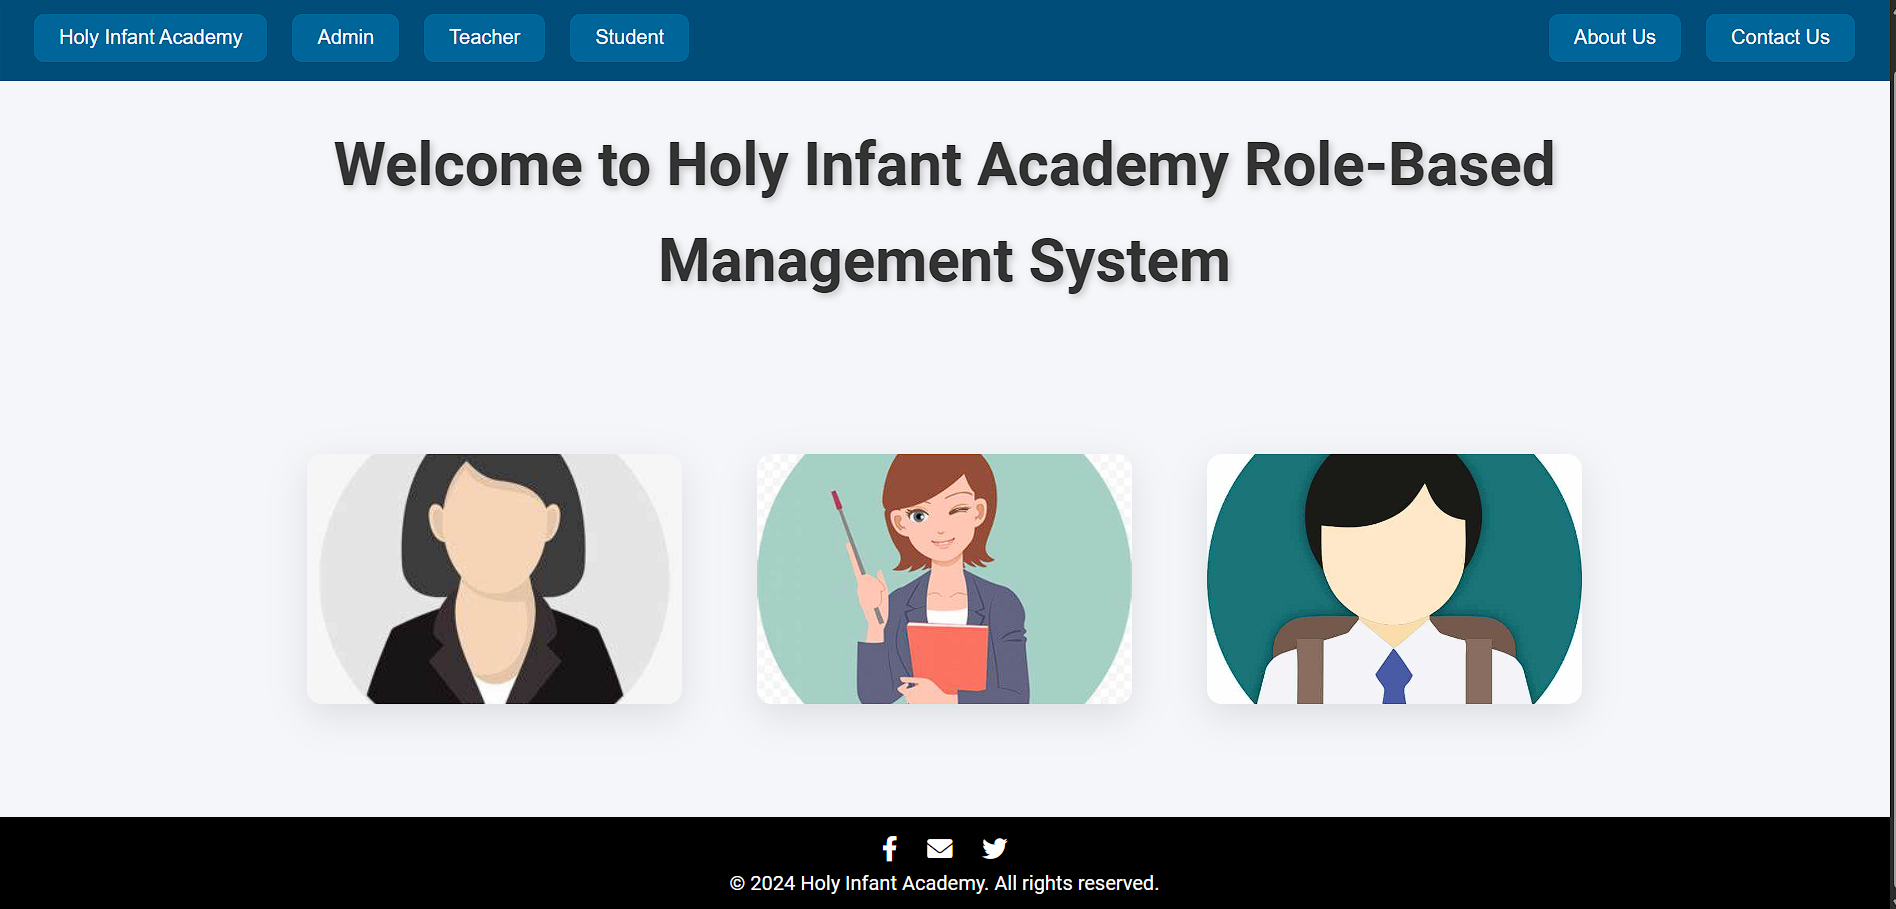
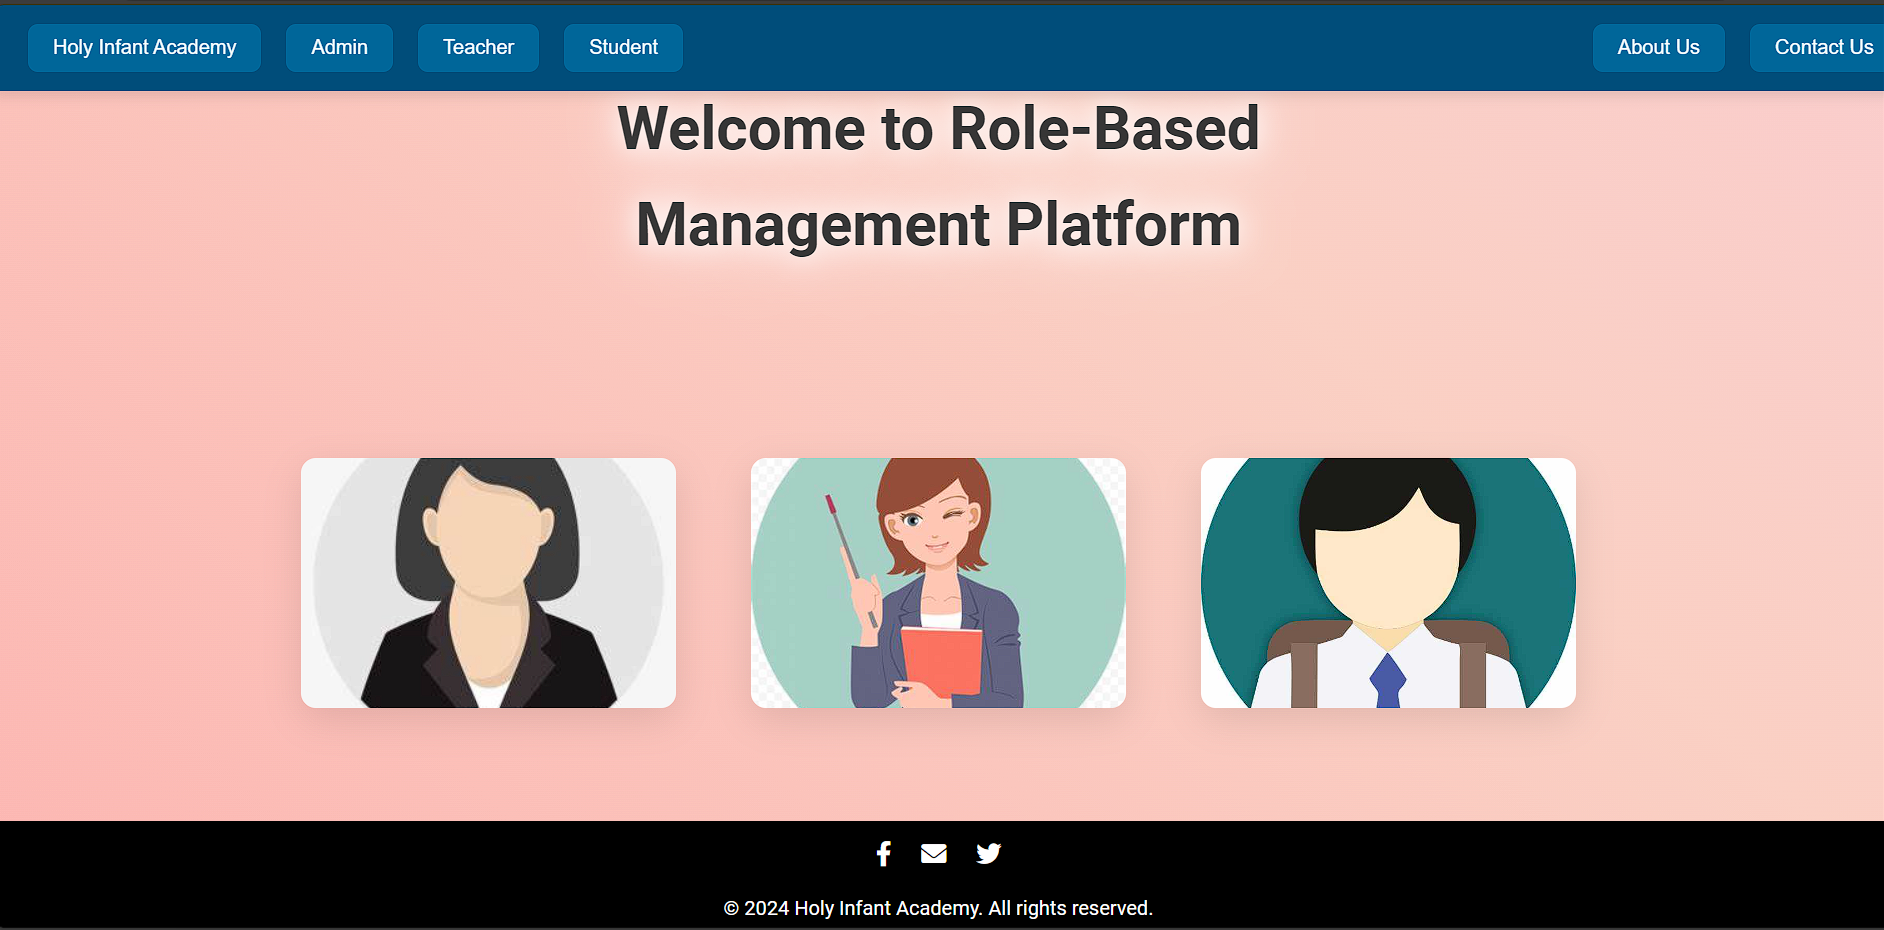
updated index,readme.md

diff --git a/index.php b/index.php
@@ -16,23 +16,68 @@ $result = $conn->query($sql);
     <style>
         /* Global Styles */
         body {
-            font-family: 'Roboto', sans-serif;
-            margin: 0;
-            padding: 0;
-            background-color: #f4f6f9;
-            color: #333;
-            display: flex;
-            flex-direction: column;
-            min-height: 100vh;
-            text-align: center;
-            line-height: 1.6;
-            transition: all 0.3s ease;
+            
+    font-family: 'Roboto', sans-serif;
+    margin: 0;
+    padding: 0;
+    background-color: #f4f6f9;
+    color: #333;
+    display: flex;
+    flex-direction: column;
+    min-height: 100vh; 
+    text-align: center;
+    line-height: 1.6;
+    transition: all 0.3s ease;
+    background: linear-gradient(45deg, #ff9a9e, #fad0c4, #fbc2eb, #a18cd1);
+    background-size: 400% 400%;
+    animation: gradientShift 10s ease infinite;
+    overflow-x: hidden; 
+    padding-top: 80px; 
+
+
+    }
+
+    /* Gradient Animation Keyframes */
+    @keyframes gradientShift {
+        0% {
+            background-position: 0% 50%;
         }
-        h1, h2, p {
-            margin: 0;
-            color: #333;
-            text-shadow: 0 0 5px rgba(0, 0, 0, 0.2); /* Glow effect */
+        50% {
+            background-position: 100% 50%;
         }
+        100% {
+            background-position: 0% 50%;
+        }
+
+        }
+    
+    /* Glow Effect */
+    #dynamic-content h1 {
+        font-size: 3rem;
+        font-weight: 600;
+        text-shadow: 0 0 15px rgba(255, 255, 255, 0.8), 
+                     0 0 30px rgba(255, 255, 255, 0.6),
+                     0 0 45px rgba(255, 255, 255, 0.4);
+        animation: glowFade 3s infinite alternate ease-in-out;
+    }
+
+    /* Fade In-Out Animation */
+    @keyframes glowFade {
+        0% {
+            opacity: 0.7;
+            text-shadow: 0 0 10px rgba(255, 255, 255, 0.8), 
+                         0 0 20px rgba(255, 255, 255, 0.6), 
+                         0 0 30px rgba(255, 255, 255, 0.4);
+        }
+        100% {
+            opacity: 1;
+            text-shadow: 0 0 20px rgba(255, 255, 255, 1), 
+                         0 0 40px rgba(255, 255, 255, 0.8), 
+                         0 0 60px rgba(255, 255, 255, 0.6);
+        }
+    }
+
+
         a {
             text-decoration: none;
             color: inherit;
@@ -40,15 +85,17 @@ $result = $conn->query($sql);
 
        
         header {
-            background-color: #004d7a;
-            color: white;
-            padding: 15px 20px;
-            display: flex;
-            justify-content: space-between;
-            align-items: center;
-            position: sticky;
-            top: 0;
-            z-index: 1000;
+         
+    background-color: #004d7a;
+    color: white;
+    padding: 15px 20px;
+    display: flex;
+    justify-content: space-between;
+    align-items: center;
+    position: sticky;
+    top: 0;
+    z-index: 1000;
+
         }
 
         footer {
